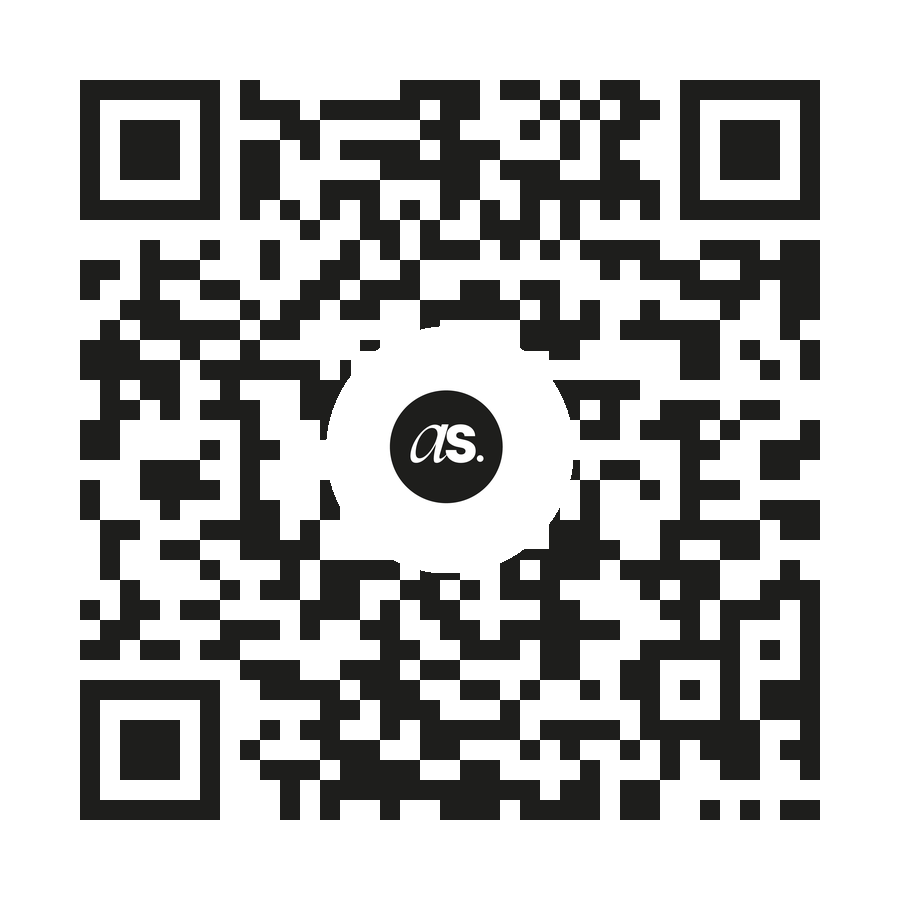
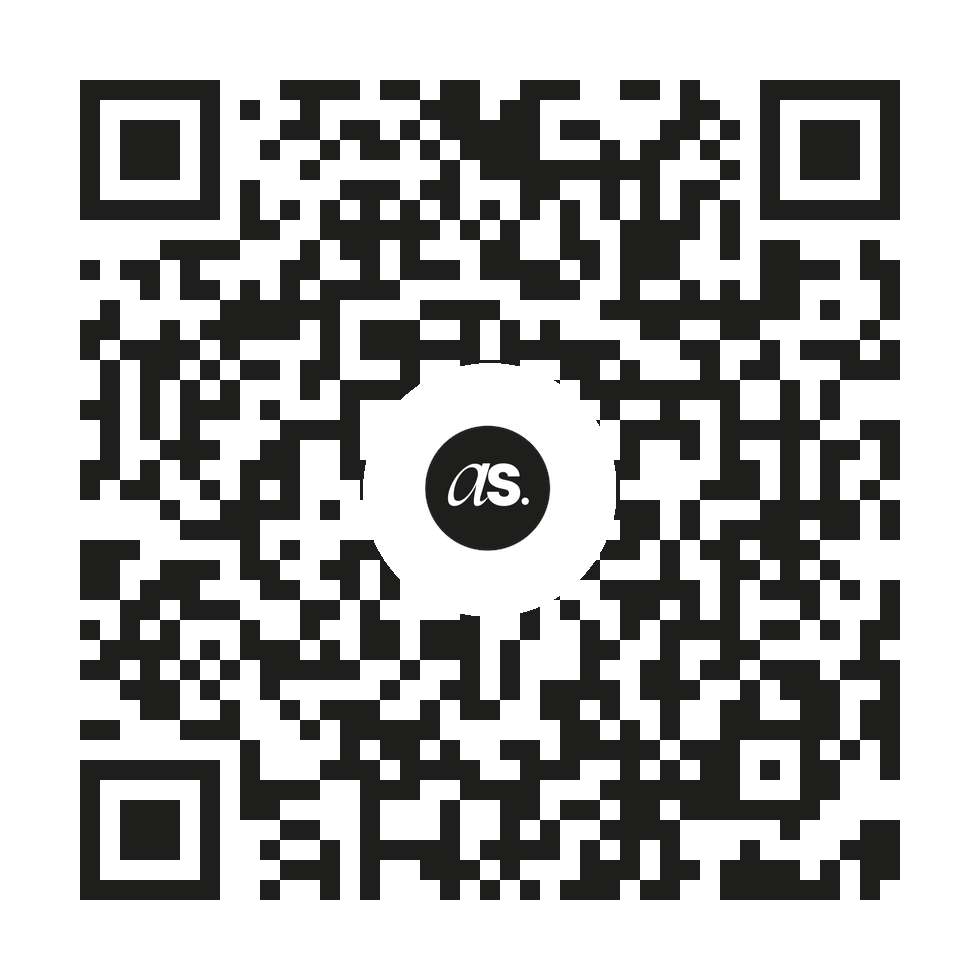
Update all

diff --git a/protocole.html b/protocole.html
@@ -536,7 +536,7 @@ height="0" width="0" style="display:none;visibility:hidden"></iframe></noscript>
         <div class="s-label">Votre protocole, dans votre poche</div>
         <h3 style="font-family:'Cormorant Garamond',serif;font-size:clamp(22px,2.6vw,30px);font-weight:300;margin:12px 0 16px;color:var(--ardoise)">Installez votre espace<br>comme une application.</h3>
         <p style="font-size:14px;color:var(--gris);line-height:1.8;margin-bottom:22px">Le lien vers votre protocole reçu par email s'installe en un geste sur votre écran d'accueil — icône, plein écran, sans navigateur autour. Votre protocole, votre journal et vos fiches, toujours à portée de main.</p>
-        <a href="espace-clientes.html" style="display:inline-block;background:var(--ardoise);color:#fff;padding:12px 26px;border-radius:99px;font-size:12px;font-weight:600;letter-spacing:.06em;text-decoration:none">Découvrir l'espace clientes →</a>
+        <a href="/outils/espace-clientes.html" style="display:inline-block;background:var(--ardoise);color:#fff;padding:12px 26px;border-radius:99px;font-size:12px;font-weight:600;letter-spacing:.06em;text-decoration:none">Découvrir l'espace clientes →</a>
       </div>
       <div style="text-align:center">
         <div style="display:inline-block;background:#fff;padding:18px;border-radius:14px;border:1px solid var(--taupe)">
@@ -613,7 +613,7 @@ height="0" width="0" style="display:none;visibility:hidden"></iframe></noscript>
         <a href="protocole.html">Mon protocole</a>
         <a href="parcours.html">Parcours</a>
         <a href="a-propos.html">Mon histoire</a>
-        <a href="espace-clientes.html" style="color:rgba(196,169,125,.5);font-size:11px;letter-spacing:.04em">✦ Espace clientes</a>
+        <a href="/outils/espace-clientes.html" style="color:rgba(196,169,125,.5);font-size:11px;letter-spacing:.04em">✦ Espace clientes</a>
       </div>
     </div>
     <div>

diff --git a/professionnels-de-sante.html b/professionnels-de-sante.html
@@ -469,7 +469,7 @@ height="0" width="0" style="display:none;visibility:hidden"></iframe></noscript>
         <a href="specialites.html">Mes spécialités</a>
         <a href="programmes.html">Mes programmes</a>
         <a href="a-propos.html">Mon histoire</a>
-        <a href="espace-clientes.html" style="color:rgba(196,169,125,.5);font-size:11px;letter-spacing:.04em">✦ Espace clientes</a>
+        <a href="/outils/espace-clientes.html" style="color:rgba(196,169,125,.5);font-size:11px;letter-spacing:.04em">✦ Espace clientes</a>
         <a href="professionnels-de-sante.html" style="color:rgba(196,169,125,.5);font-size:11px;letter-spacing:.04em">✦ Vous êtes professionnel de santé</a>
       </div>
     </div>

diff --git a/parcours.html b/parcours.html
@@ -717,7 +717,7 @@ nav{position:fixed;top:34px;left:0;right:0;z-index:1000;padding:0 52px;height:68
         <a href="specialites.html">Mes spécialités</a>
         <a href="parcours.html">Mes parcours</a>
         <a href="a-propos.html">Mon histoire</a>
-        <a href="espace-clientes.html" style="color:rgba(196,169,125,.5);font-size:11px;letter-spacing:.04em">✦ Espace clientes</a>
+        <a href="/outils/espace-clientes.html" style="color:rgba(196,169,125,.5);font-size:11px;letter-spacing:.04em">✦ Espace clientes</a>
         <a href="professionnels-de-sante.html" style="color:rgba(196,169,125,.5);font-size:11px;letter-spacing:.04em">✦ Vous êtes professionnel de santé</a>
       </div>
     </div>

diff --git a/a-propos.html b/a-propos.html
@@ -509,7 +509,7 @@ height="0" width="0" style="display:none;visibility:hidden"></iframe></noscript>
         <a href="parcours.html">Parcours</a>
         <a href="a-propos.html">Mon histoire</a>
         <a href="a-propos.html">Le Manifeste</a>
-        <a href="espace-clientes.html" style="color:rgba(196,169,125,.5);font-size:11px;letter-spacing:.04em">✦ Espace clientes</a>
+        <a href="/outils/espace-clientes.html" style="color:rgba(196,169,125,.5);font-size:11px;letter-spacing:.04em">✦ Espace clientes</a>
       </div>
     </div>
     <div>
